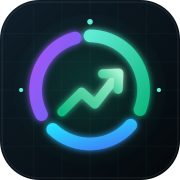
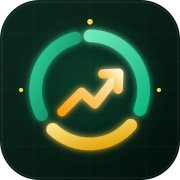
Nuevo ícono de DL FINANZAS en verde y dorado, distinto al de DL CUADRA PRO
Claude-Session: https://claude.ai/code/session_018qKwLnaZnPcf2GeHwSSWPn

Changed region(s): [[0.1111, 0.1389, 0.7778, 0.8611], [0.8611, 0.4722, 0.8889, 0.5278], [0.4722, 0.1111, 0.5278, 0.1389]]

diff --git a/sw.js b/sw.js
@@ -1,5 +1,5 @@
 // DL FINANZAS - Service worker: funciona sin conexión y se actualiza solo
-const CACHE = 'dl-finanzas-v14-botones';
+const CACHE = 'dl-finanzas-v15-icono-verde';
 const SHELL = ['./', './index.html', './legal.html', './firebase-config.js', './manifest.webmanifest', './logo.svg', './icon.svg', './dl-company.png', './apple-touch-icon.png', './icon-192.png', './icon-512.png', './icon-maskable-512.png'];
 
 self.addEventListener('install', (e) => {
